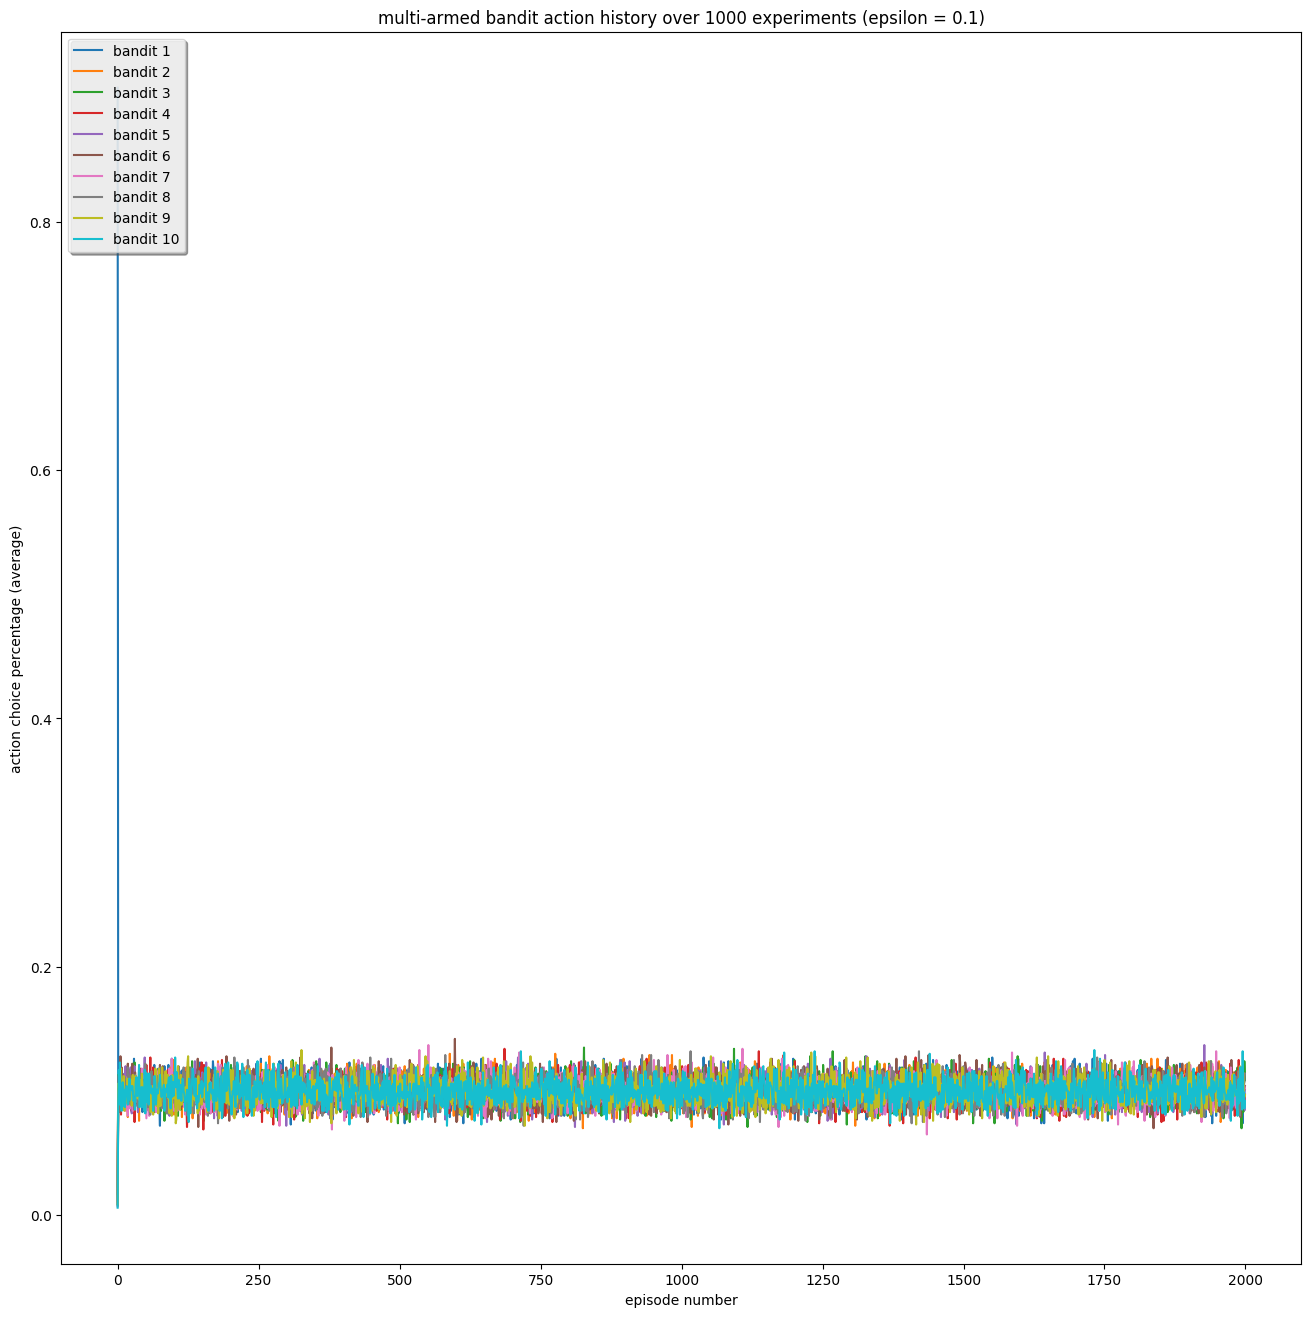
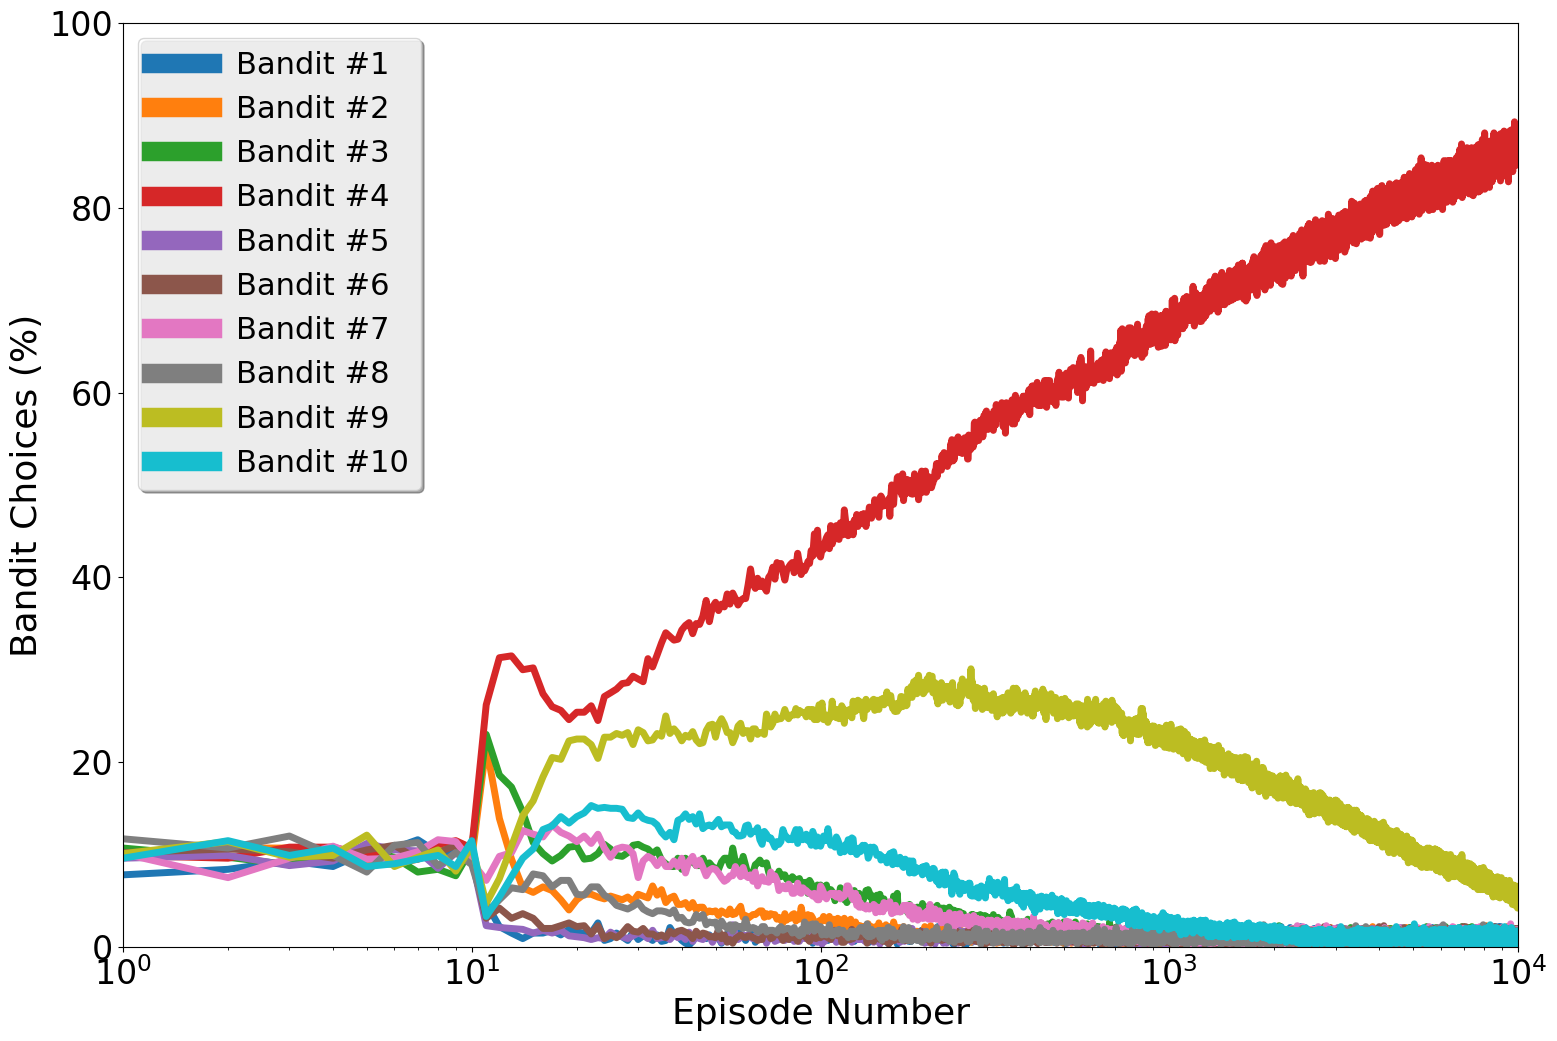
update

diff --git a/multiarmed_bandit/multiarmed_bandit.py b/multiarmed_bandit/multiarmed_bandit.py
@@ -31,15 +31,16 @@
 """
 import numpy as np
 import matplotlib.pyplot as plt
+import matplotlib.pylab as pylab
 
 def main():
     # =========================
     # Settings
     # =========================
-    bandits = [0.10, 0.50, 0.60, 0.80, 0.10,
-               0.25, 0.60, 0.45, 0.75, 0.65]  # bandit probabilities of success
+    bandit_probs = [0.10, 0.50, 0.60, 0.80, 0.10,
+                    0.25, 0.60, 0.45, 0.75, 0.65]  # bandit probabilities of success
     N_experiments = 1000  # number of experiments to perform
-    N_episodes = 2000  # number of episodes per experiment
+    N_episodes = 10000  # number of episodes per experiment
     epsilon = 0.1  # probability of random exploration (fraction)
     save_fig = True  # if false -> plot, if true save as file in same directory
     save_format = ".png"  # ".pdf" or ".png"
@@ -48,14 +49,13 @@ def main():
     # Define Bandit and Agent class
     # =========================
     class Bandit:
-        def __init__(self, bandits):
-            self.N = len(bandits)  # number of bandits
-            self.prob = bandits  # success probabilities for each bandit
+        def __init__(self, bandit_probs):
+            self.N = len(bandit_probs)  # number of bandits
+            self.prob = bandit_probs  # success probabilities for each bandit
 
-        # Get reward
+        # Get reward (1 for success, 0 for failure)
         def get_reward(self, action):
             rand = np.random.random()  # [0.0,1.0)
-            # reward = 1 for success, 0 for failure
             reward = 1 if (rand < self.prob[action]) else 0
             return reward
 
@@ -89,7 +89,7 @@ def main():
         reward_history = []
         for episode in range(N_episodes):
             # Choose action from agent (from current Q estimate)
-            action = agent.choose_action(bandit, force_explore=episode)
+            action = agent.choose_action(bandit, force_explore=(episode<10))
             # Pick up reward from bandit for chosen action
             reward = bandit.get_reward(action)
             # Update Q action-value estimates
@@ -104,20 +104,20 @@ def main():
     # Start multi-armed bandit simulation
     #
     # =========================
-    N_bandits = len(bandits)
+    N_bandits = len(bandit_probs)
     print("Running multi-armed bandits with N_bandits = {} and agent epsilon = {}".format(N_bandits, epsilon))
     reward_history_avg = np.zeros(N_episodes)  # reward history experiment-averaged
     action_history_sum = np.zeros((N_episodes, N_bandits))  # sum action history
     for i in range(N_experiments):
-        bandit = Bandit(bandits)  # initialize bandits
+        bandit = Bandit(bandit_probs)  # initialize bandits
         agent = Agent(bandit, epsilon)  # initialize agent
         (action_history, reward_history) = experiment(agent, bandit, N_episodes)  # perform experiment
-        # Print
+
         if (i + 1) % (N_experiments / 20) == 0:
             print("[Experiment {}/{}]".format(i + 1, N_experiments))
             print("  N_episodes = {}".format(N_episodes))
-            print("  action history = {}".format(
-                action_history))
+            print("  bandit choice history = {}".format(
+                action_history + 1))
             print("  reward history = {}".format(
                 reward_history))
             print("  average reward = {}".format(np.sum(reward_history) / len(reward_history)))
@@ -135,9 +135,9 @@ def main():
     # Plot reward history results
     # =========================
     plt.plot(reward_history_avg)
-    plt.xlabel("episode number")
-    plt.ylabel("rewards collected (averaged)".format(N_experiments))
-    plt.title("multi-armed bandit reward history over {} experiments (epsilon = {})".format(N_episodes, epsilon))
+    plt.xlabel("Episode number")
+    plt.ylabel("Rewards collected (averaged)".format(N_experiments))
+    plt.title("Reward history over {} experiments (epsilon = {})".format(N_episodes, epsilon))
     if save_fig:
         output_file = "results/MAB_rewards" + save_format
         plt.savefig(output_file, bbox_inches="tight")
@@ -147,14 +147,24 @@ def main():
     # =========================
     # Plot action history results
     # =========================
-    plt.figure(figsize=(16, 16))
+    plt.figure(figsize=(18, 12))
     for i in range(N_bandits):
-        action_history_sum_plot = action_history_sum[:,i] / N_experiments
-        plt.plot(action_history_sum_plot, label="bandit {}".format(i+1))
-    plt.xlabel("episode number")
-    plt.ylabel("action choice percentage (average)")
-    plt.title("multi-armed bandit action history over {} experiments (epsilon = {})".format(N_experiments, epsilon))
-    plt.legend(loc='upper left', shadow=True)
+        action_history_sum_plot = 100 * action_history_sum[:,i] / N_experiments
+        plt.plot(list(np.array(range(len(action_history_sum_plot)))+1),
+                 action_history_sum_plot,
+                 linewidth=5.0,
+                 label="Bandit #{}".format(i+1))
+    plt.xlabel("Episode Number", fontsize=26)
+    plt.ylabel("Bandit Choices (%)", fontsize=26)
+    leg = plt.legend(loc='upper left', shadow=True, fontsize=22)
+    ax = plt.gca()
+    ax.set_xscale("log", nonposx='clip')
+    plt.xlim([1, 10000])
+    plt.ylim([0, 100])
+    plt.xticks(fontsize=24)
+    plt.yticks(fontsize=24)
+    for legobj in leg.legendHandles:
+        legobj.set_linewidth(14.0)
     if save_fig:
         output_file = "results/MAB_actions" + save_format
         plt.savefig(output_file, bbox_inches="tight")
